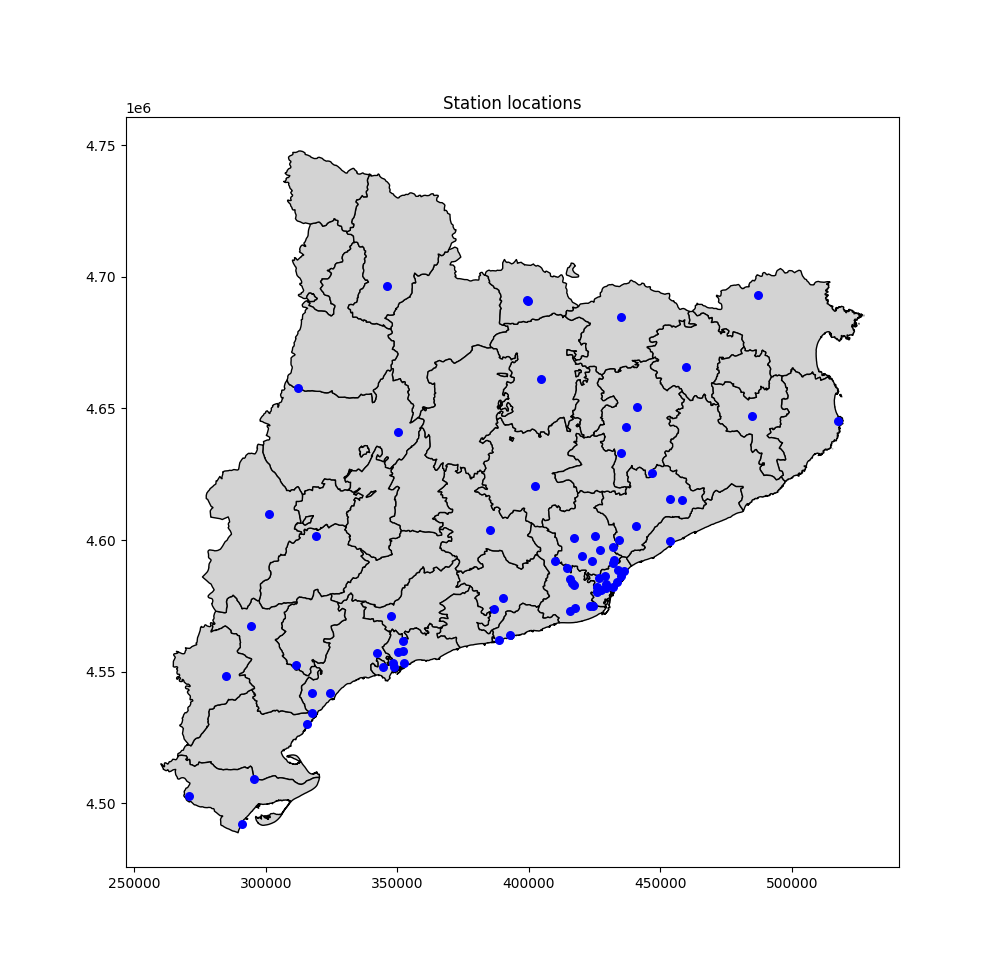
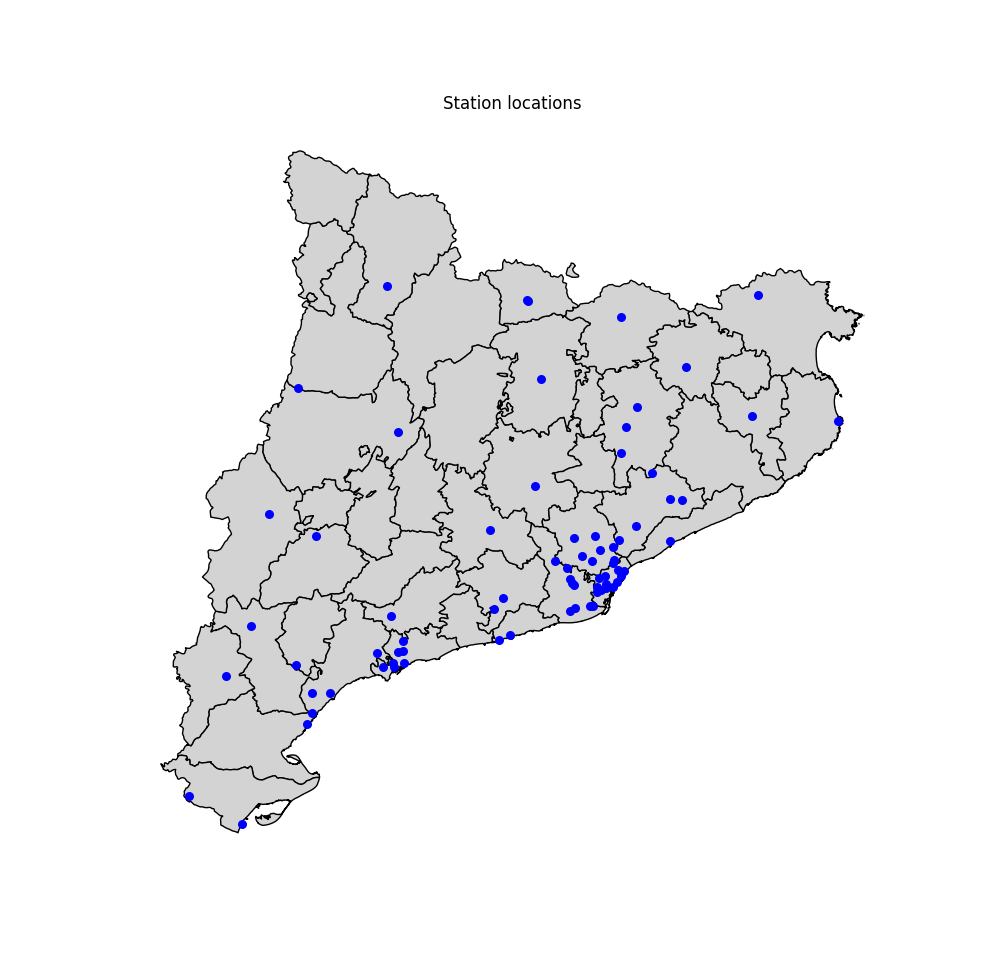
normalized maps

diff --git a/data_fetcher/utils.py b/data_fetcher/utils.py
@@ -59,6 +59,7 @@ def plot_stations_in_map(station_coordinates):
     # Plot the map and add station points
     fig, ax = plt.subplots(figsize=(10, 10))
     cat.plot(ax=ax, color='lightgray', edgecolor='black')
+    ax.axis('off')
 
     # Plot the stations
     stations_df.plot(ax=ax, color='blue', markersize=30)
@@ -76,7 +77,10 @@ def plot_bubble_map(dataframe, station_coordinates, title, contaminant='NO2'):
     print("station_coordinates: ", station_coordinates)
 
     # Split the columns, keep only the contaminant we want to plot
-    dataframe = dataframe[contaminant]
+    try:
+        dataframe = dataframe[contaminant]
+    except KeyError:
+        dataframe = dataframe
 
     cat = gpd.read_file('shp_cat/divisions-administratives-v2r1-comarques-1000000-20240705.shp')
 
@@ -94,14 +98,54 @@ def plot_bubble_map(dataframe, station_coordinates, title, contaminant='NO2'):
     ax.axis('off')
     cat.plot(ax=ax, color='lightgray', edgecolor='black')
 
+    # Maximum value of the dataframe
+    max_value = dataframe.apply(pd.to_numeric, errors='coerce').max() * 24
+
+    print("max_value: ", max_value)
+        
+
     for station in stations_df['nom_estacio']:
         print("STATION: ", station)
         value = dataframe.get(station, 0)
         print("VALUE: ", value)
         # Plot the stations
         if value != 'NaN':
-            stations_df[stations_df["nom_estacio"] == station].plot(ax=ax, color='blue', markersize=value, alpha=.2)
+            percentage = value * 100
+            print(station, percentage)
+            color = plt.cm.magma(value*24 / max_value)
+            stations_df[stations_df["nom_estacio"] == station].plot(ax=ax, markersize=percentage*10, alpha=.4, color=color)
 
+    # Add a legend with circle sizes, the value indicates how many times the threshold was exceeded
+    for value in [1, 5, 10, 20]:
+        plt.scatter([], [], c='blue', alpha=0.2, s=value*10, label=str(value))
+    # Add a color bar with the colors used to represent the threshold exceedances
+    sm = plt.cm.ScalarMappable(cmap=plt.cm.magma, norm=plt.Normalize(vmin=0, vmax=max_value))
+    sm.set_array([])
+    plt.colorbar(sm, ax=ax, label='Average threshold exceedances per day')
+    plt.legend(title='% of threshold exceedances', loc='upper right', frameon=False)
     plt.title(title)
+
+    # Add a small square showing Barcelona
+    inset_ax = fig.add_axes([0.4, 0.1, 0.2, 0.2])
+    cat.plot(ax=inset_ax, color='lightgray', edgecolor='black')
+    for station in stations_df['nom_estacio']:
+        print("STATION: ", station)
+        value = dataframe.get(station, 0)
+        print("VALUE: ", value)
+        # Plot the stations
+        if value != 'NaN':
+            percentage = value * 100
+            print(station, percentage)
+            color = plt.cm.magma(value * 24 / max_value)
+            stations_df[stations_df["nom_estacio"] == station].plot(ax=inset_ax, markersize=percentage*10, alpha=.4, color=color)
+    inset_ax.axis('off')
+    inset_ax.set_xlim(410000, 440000)
+    inset_ax.set_ylim(4.57e6, 4.595e6)
+    inset_ax.set_title('Barcelona')
+
+
     plt.show()
+
+    # remove '/' from the title
+    title = title.replace('/', '')
     plt.savefig(f'bubble_map_{title}.png')

diff --git a/maps.py b/maps.py
@@ -10,10 +10,11 @@ def main():
     yaml_file_path = 'WMO.yaml'
     thresholds = load_yaml(yaml_file_path)
     
-    fetcher = DataFetcher("analisi.transparenciacatalunya.cat", "9Hbf461pXC6Lin1yqkq414Fxi", "tasf-thgu", limit=20000)
+    fetcher = DataFetcher("analisi.transparenciacatalunya.cat", "9Hbf461pXC6Lin1yqkq414Fxi", "tasf-thgu", limit=21000)
     municipality = 'all'
     year = 2024
     month = '10'
+    #month = 'all'
 
     if month == 'all':
         last_data_needed = pd.to_datetime(f"{year}-01-01")
@@ -53,6 +54,14 @@ def main():
     accumulator = initialize_accumulator(stations, pollutants)
     accumulator = update_accumulator(accumulator, processed_data, stations, pollutants, thresholds)
 
+    # Remove stations with NaN values in the accumulator
+    accumulator = accumulator.dropna()
+
+    # Keep only the values for NO2, with the key 'NO2' in the column axis
+    accumulator = accumulator['NO2']
+
+    print("accumulator: ", accumulator)
+
     station_coordinates = fetcher.get_station_coordinates(filter=filter)
 
     print("station_coordinates: ", station_coordinates)
@@ -60,10 +69,28 @@ def main():
     plot_stations_in_map(station_coordinates)
 
     # normalize accumulator
-    normalized_accumulator = pd.DataFrame(accumulator).div(total_hour_counts, axis=0)
-    
+    normalized_accumulator = accumulator.copy()
+    for station in stations:
+        print("station: ", station)
+        try:
+            print("accumulator.loc[station]: ", accumulator.loc[station])
+        except:
+            print("accumulator.loc[station]: ", 0)
+        try:
+            print("total_hour_counts.loc[station]: ", total_hour_counts.loc[station])
+        except:
+            print("total_hour_counts.loc[station]: ", 0)
+        if accumulator.loc[station] != 'NaN':
+            if total_hour_counts.loc[station] != 0 and total_hour_counts.loc[station] != 'NaN':
+                try:
+                    normalized_accumulator[station] = accumulator.loc[station] / total_hour_counts.loc[station]
+                except:
+                    normalized_accumulator[station] = 0
+    print("normalized_accumulator: ", normalized_accumulator)
 
-    plot_bubble_map(accumulator, station_coordinates, f'NO2 hourly Threshold Exceedances in {municipality} Stations for {month}/{year}')
+    #plot_bubble_map(accumulator, station_coordinates, f'NO2 hourly Threshold Exceedances in {municipality} Stations for {month}/{year}')
+
+    plot_bubble_map(normalized_accumulator, station_coordinates, f'NO2 hourly Threshold Exceedances in {municipality} Stations for {month}/{year}')
 
 if __name__ == "__main__":
     main()

diff --git a/data_fetcher/data_fetcher.py b/data_fetcher/data_fetcher.py
@@ -81,7 +81,7 @@ class DataFetcher:
         Returns the coordinates of a station
         """
         # remove nan instances
-        if type(station) != str:
+        if not isinstance(station, str):
             return pd.DataFrame({})
         # Escape single quotes in the station name
         safe_station = station.replace("'", "''")
@@ -94,24 +94,32 @@ class DataFetcher:
         """
         Fetches data from the dataset with a filter, processes it and saves it to a CSV file
         """
+
+        # Retrieve the data, fill NaN values with 0 and remove the 'h' columns
         results_filtered = self.fetch_data_with_filter(filter)
         results_filtered.fillna(0, inplace=True)
-
         new_table = pd.DataFrame(columns=results_filtered.columns)
         new_table = new_table.loc[:, ~new_table.columns.str.startswith('h')]
 
+        # Melt the DataFrame to have a row for each hour
         melted_df = results_filtered.melt(id_vars=['data', 'nom_estacio', 'contaminant'], 
                                           value_vars=[f'h{i:02d}' for i in range(1, 25)], 
                                           var_name='hour', value_name='value')
+        # Extract the hour from the column name and subtract 1 to have the correct hour
         melted_df['hour'] = melted_df['hour'].str.extract('(\d+)').astype(int) - 1
+
+        # Replace the date with the date and hour
         melted_df['data'] = pd.to_datetime(melted_df['data'])
         melted_df['data'] = melted_df.apply(lambda row: row['data'].replace(hour=row['hour']), axis=1)
-        new_table = melted_df.drop(columns=['hour'])
 
+        # Drop the hour column and sort the DataFrame by date
+        new_table = melted_df.drop(columns=['hour'])
         new_table = new_table.sort_values(by='data')
 
+        # Save the processed data to a CSV file
         new_table.to_csv(output_file, index=False)
         print(f"Data saved to {output_file}")
+
         return new_table
 
     def process_and_save_data_no_filter(self, output_file='filtered_data.csv'):
